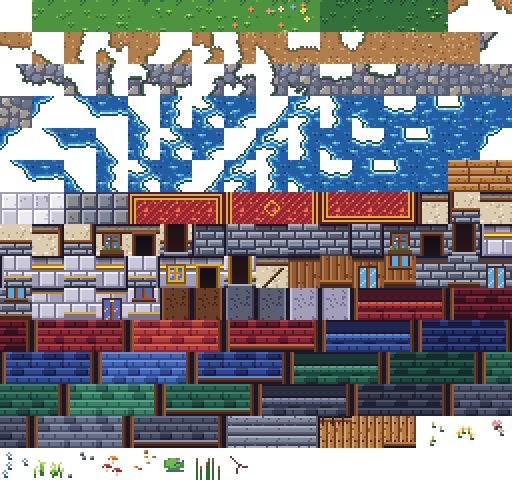
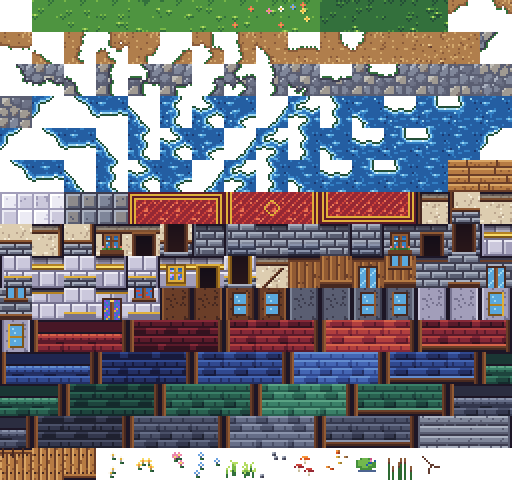
Ver o interior também por janelas do fundo e das laterais

Changed region(s): [[0.0, 0.5938, 1.0, 1.0]]

diff --git a/src/data/maps/world.ts b/src/data/maps/world.ts
@@ -15,7 +15,7 @@ export function buildWorld(): GameMap {
 
   // ------------------------------------------------------------------ regiões
   b.region({ id: 'town', name: 'Vila de Pedraluz', x: 0, y: 0, w: 72, h: WORLD_H, pz: true, music: 'town', priority: 1 });
-  b.region({ id: 'temple', name: 'Templo da Aurora', x: 39, y: 3, w: 17, h: 14, pz: true, music: 'temple', priority: 3 });
+  b.region({ id: 'temple',  name: 'Templo da Aurora', x: 39, y: 3, w: 17, h: 14, pz: true, music: 'temple', priority: 3 });
   b.region({ id: 'wild', name: 'Bosque Selvagem', x: 72, y: 0, w: 32, h: WORLD_H, pz: false, music: 'wild', priority: 1 });
   b.region({ id: 'meadow', name: 'Clareira dos Slimes', x: 73, y: 24, w: 18, h: 20, pz: false, music: 'wild', priority: 2 });
   b.region({ id: 'boarwoods', name: 'Mata dos Javalis', x: 73, y: 3, w: 29, h: 18, pz: false, music: 'wild', priority: 2 });
@@ -46,7 +46,7 @@ export function buildWorld(): GameMap {
   b.path([[84, 30], [89, 31]], 2);
 
   // ------------------------------------------------------------------ Templo da Aurora (nascimento, área segura)
-  b.building({ id: 'temple', name: 'Templo da Aurora', x: 40, y: 4, w: 15, h: 12, wall: 'marble', interior: 'temple', floor: 'marble', roof: 'slate', doorX: 47, windows: [42, 44, 50, 52], interiorWindows: [44, 50] });
+  b.building({ id: 'temple', sideWindows: [{ side: 'l', y: 9 }, { side: 'r', y: 9 }], name: 'Templo da Aurora', x: 40, y: 4, w: 15, h: 12, wall: 'marble', interior: 'temple', floor: 'marble', roof: 'slate', doorX: 47, windows: [42, 44, 50, 52], interiorWindows: [44, 50] });
   b.carpet({ x: 46, y: 9, w: 3, h: 5 });
   b.prop('statue', 47, 6).prop('brazier', 45, 6).prop('brazier', 49, 6);
   b.prop('altar', 46, 7);
@@ -63,14 +63,14 @@ export function buildWorld(): GameMap {
   b.reserve({ x: 39, y: 3, w: 17, h: 18 });
 
   // ------------------------------------------------------------------ Vila: lojas ao norte da avenida
-  b.building({ id: 'smith', name: 'Ferraria', x: 26, y: 12, w: 9, h: 9, wall: 'stone', interior: 'stone', floor: 'stone', roof: 'red', doorX: 30, windows: [28, 32], interiorWindows: [], chimneyX: 28 });
+  b.building({ id: 'smith', sideWindows: [{ side: 'r', y: 16 }], name: 'Ferraria', x: 26, y: 12, w: 9, h: 9, wall: 'stone', interior: 'stone', floor: 'stone', roof: 'red', doorX: 30, windows: [28, 32], interiorWindows: [], chimneyX: 28 });
   b.prop('anvil', 27, 14).prop('weapon_rack', 31, 14).prop('armor_stand', 33, 14);
   b.prop('counter', 28, 15);
   b.prop('barrel', 33, 17).prop('crate', 27, 17);
   b.npc('smith', 29, 14, 'down');
   b.sign(32, 21, 'Ferraria de Pedraluz — armas, escudos e armaduras.');
 
-  b.building({ id: 'alchemy', name: 'Alquimia', x: 60, y: 12, w: 9, h: 9, wall: 'plaster', interior: 'wood', floor: 'wood', roof: 'green', doorX: 64, windows: [62, 66], interiorWindows: [62], chimneyX: 66 });
+  b.building({ id: 'alchemy', sideWindows: [{ side: 'l', y: 16 }], name: 'Alquimia', x: 60, y: 12, w: 9, h: 9, wall: 'plaster', interior: 'wood', floor: 'wood', roof: 'green', doorX: 64, windows: [62, 66], interiorWindows: [62], chimneyX: 66 });
   b.prop('potion_shelf', 61, 14).prop('cauldron', 66, 14).prop('bookshelf', 67, 14);
   b.prop('counter', 63, 15);
   b.prop('plant', 61, 17).prop('candle', 67, 17);
@@ -88,14 +88,14 @@ export function buildWorld(): GameMap {
   b.prop('well', 24, 25);
 
   // ------------------------------------------------------------------ casas exploráveis (sem troca de tela)
-  b.building({ id: 'house_rosa', name: 'Casa da Dona Rosa', x: 26, y: 38, w: 8, h: 9, wall: 'plaster', interior: 'wood', floor: 'wood', roof: 'blue', doorX: 29, windows: [27, 31], interiorWindows: [31], chimneyX: 31 });
+  b.building({ id: 'house_rosa', sideWindows: [{ side: 'l', y: 42 }], name: 'Casa da Dona Rosa', x: 26, y: 38, w: 8, h: 9, wall: 'plaster', interior: 'wood', floor: 'wood', roof: 'blue', doorX: 29, windows: [27, 31], interiorWindows: [31], chimneyX: 31 });
   b.prop('bed', 27, 41).prop('wardrobe', 28, 40).prop('fireplace', 31, 40).prop('table', 30, 42).prop('chair', 32, 42).prop('plant', 27, 43);
   b.npc('villager', 29, 42, 'down');
 
-  b.building({ id: 'house_elder', name: 'Casa do Ancião', x: 44, y: 38, w: 9, h: 9, wall: 'plaster', interior: 'wood', floor: 'wood', roof: 'red', doorX: 48, windows: [46, 50], interiorWindows: [46, 50], chimneyX: 45 });
+  b.building({ id: 'house_elder', sideWindows: [{ side: 'r', y: 42 }, { side: 'l', y: 41 }], name: 'Casa do Ancião', x: 44, y: 38, w: 9, h: 9, wall: 'plaster', interior: 'wood', floor: 'wood', roof: 'red', doorX: 48, windows: [46, 50], interiorWindows: [46, 50], chimneyX: 45 });
   b.prop('bookshelf', 45, 40).prop('bookshelf', 46, 40).prop('bed', 51, 41).prop('table_small', 49, 40).prop('chair', 50, 40).prop('chest', 45, 43).prop('candle', 51, 43);
 
-  b.building({ id: 'house_hunter', name: 'Casa do Caçador', x: 60, y: 38, w: 8, h: 9, wall: 'stone', interior: 'wood', floor: 'wood', roof: 'green', doorX: 63, windows: [61, 65], interiorWindows: [65], chimneyX: 61 });
+  b.building({ id: 'house_hunter', sideWindows: [{ side: 'r', y: 41 }], name: 'Casa do Caçador', x: 60, y: 38, w: 8, h: 9, wall: 'stone', interior: 'wood', floor: 'wood', roof: 'green', doorX: 63, windows: [61, 65], interiorWindows: [65], chimneyX: 61 });
   b.prop('weapon_rack', 61, 40).prop('bed', 66, 41).prop('table', 62, 42).prop('chair', 61, 42).prop('barrel', 66, 43).prop('crate', 61, 43);
 
   // ------------------------------------------------------------------ lago, fazenda e jardins

diff --git a/src/game/world/MapBuilder.ts b/src/game/world/MapBuilder.ts
@@ -175,8 +175,8 @@ export class MapBuilder {
   }
 
   // ------------------------------------------------------------------ construções (interior no mesmo mapa)
-  building(def: Omit<BuildingDef, 'windows' | 'interiorWindows'> & { windows?: number[]; interiorWindows?: number[] }): this {
-    const b: BuildingDef = { windows: [], interiorWindows: [], ...def };
+  building(def: Omit<BuildingDef, 'windows' | 'interiorWindows' | 'sideWindows'> & { windows?: number[]; interiorWindows?: number[]; sideWindows?: BuildingDef['sideWindows'] }): this {
+    const b: BuildingDef = { windows: [], interiorWindows: [], sideWindows: [], ...def };
     const index = this.buildings.length;
     this.buildings.push(b);
     const { x, y, w, h } = b;
@@ -200,8 +200,10 @@ export class MapBuilder {
     }
     // topo das paredes laterais
     for (let yy = y; yy < frontTop; yy++) {
-      this.walls[this.idx(x, yy)] = this.tile(`wtop_${b.interior}_l`);
-      this.walls[this.idx(x + w - 1, yy)] = this.tile(`wtop_${b.interior}_r`);
+      const winL = b.sideWindows.some((s) => s.side === 'l' && s.y === yy) ? '_window' : '';
+      const winR = b.sideWindows.some((s) => s.side === 'r' && s.y === yy) ? '_window' : '';
+      this.walls[this.idx(x, yy)] = this.tile(`wtop_${b.interior}_l${winL}`);
+      this.walls[this.idx(x + w - 1, yy)] = this.tile(`wtop_${b.interior}_r${winR}`);
       for (const xx of [x, x + w - 1]) {
         this.setSolid(xx, yy);
         this.sight[this.idx(xx, yy)] = 1;
@@ -234,6 +236,7 @@ export class MapBuilder {
     // a linha do telhado acima da construção e a frente da porta ficam livres de decoração
     this.reserve({ x: x - 1, y: y - 2, w: w + 2, h: 2 });
     this.reserve({ x: b.doorX - 1, y: frontBot + 1, w: 3, h: 2 });
+    for (const s of b.sideWindows) this.reserve({ x: s.side === 'l' ? x - 1 : x + w, y: s.y, w: 1, h: 1 });
     return this;
   }
 

diff --git a/src/game/world/roof.ts b/src/game/world/roof.ts
@@ -18,9 +18,14 @@ export function roofTileName(b: BuildingDef, x: number, y: number): string {
   return `roof_${b.roof}_${row}_${part}`;
 }
 
-/** Em frente à porta ou a uma janela (linha logo abaixo da fachada) ou na soleira: o interior fica visível. */
+/** Junto a uma porta ou janela (frente, fundo ou laterais), por fora: o interior fica visível. */
 export function isPeekingInside(b: BuildingDef, x: number, y: number): boolean {
   const frontRow = b.y + b.h;
-  if (y !== frontRow && !(y === frontRow - 1 && x === b.doorX)) return false;
-  return x === b.doorX || b.windows.includes(x);
+  // frente: porta (inclusive a soleira) e janelas da fachada
+  if (y === frontRow && (x === b.doorX || b.windows.includes(x))) return true;
+  if (y === frontRow - 1 && x === b.doorX) return true;
+  // fundo: logo atrás da parede, alinhado a uma janela da parede do fundo
+  if (y === b.y - 1 && b.interiorWindows.includes(x)) return true;
+  // laterais: ao lado da parede, alinhado a uma janela lateral
+  return b.sideWindows.some((s) => s.y === y && (s.side === 'l' ? x === b.x - 1 : x === b.x + b.w));
 }

diff --git a/scripts/art/tiles.ts b/scripts/art/tiles.ts
@@ -562,9 +562,22 @@ function wallTopSide(side: 'l' | 'r', style: IWall): PixelCanvas {
   }
   return c;
 }
+function wallTopSideWindow(side: 'l' | 'r', style: IWall): PixelCanvas {
+  const c = wallTopSide(side, style);
+  const frame = style === 'temple' ? P.gold : P.wood;
+  // moldura e vidro ocupando o centro do topo da parede lateral
+  c.rect(4, 2, 8, 12, frame[1]!);
+  c.rect(5, 3, 6, 10, P.water[4]!);
+  for (let i = 0; i < 4; i++) c.set(6 + (i % 2), 4 + i * 2, P.water[5]!);
+  c.hline(5, 10, 8, frame[2]!);
+  c.vline(side === 'l' ? 11 : 4, 2, 13, frame[3]!);
+  return c;
+}
 for (const style of ['wood', 'stone', 'temple'] as const) {
   add(`wtop_${style}_l`, wallTopSide('l', style));
   add(`wtop_${style}_r`, wallTopSide('r', style));
+  add(`wtop_${style}_l_window`, wallTopSideWindow('l', style));
+  add(`wtop_${style}_r_window`, wallTopSideWindow('r', style));
 }
 
 // ---------------------------------------------------------------- telhados

diff --git a/tests/unit/world.test.ts b/tests/unit/world.test.ts
@@ -112,3 +112,23 @@ describe('espiar o interior', () => {
     expect(isPeekingInside(b, b.doorX, front + 1)).toBe(false);
   });
 });
+
+describe('janelas laterais e do fundo', () => {
+  it('o lado de fora de cada janela é acessível e permite ver o interior', async () => {
+    const { isPeekingInside } = await import('../../src/game/world/roof');
+    let checked = 0;
+    for (const b of map.buildings) {
+      for (const s of b.sideWindows) {
+        const x = s.side === 'l' ? b.x - 1 : b.x + b.w;
+        expect(isSolid(map, x, s.y), `${b.id} janela ${s.side}`).toBe(false);
+        expect(isPeekingInside(b, x, s.y)).toBe(true);
+        checked++;
+      }
+      for (const wx of b.interiorWindows) {
+        expect(isPeekingInside(b, wx, b.y - 1)).toBe(true);
+        expect(isPeekingInside(b, wx + 100, b.y - 1)).toBe(false);
+      }
+    }
+    expect(checked).toBeGreaterThan(4);
+  });
+});

diff --git a/src/game/world/GameMap.ts b/src/game/world/GameMap.ts
@@ -22,7 +22,10 @@ export interface BuildingDef {
   roof: RoofStyle;
   doorX: number;
   windows: number[];
+  /** Janelas da parede do fundo (colunas). */
   interiorWindows: number[];
+  /** Janelas das paredes laterais (lado e linha). */
+  sideWindows: { side: 'l' | 'r'; y: number }[];
   chimneyX?: number;
 }
 
